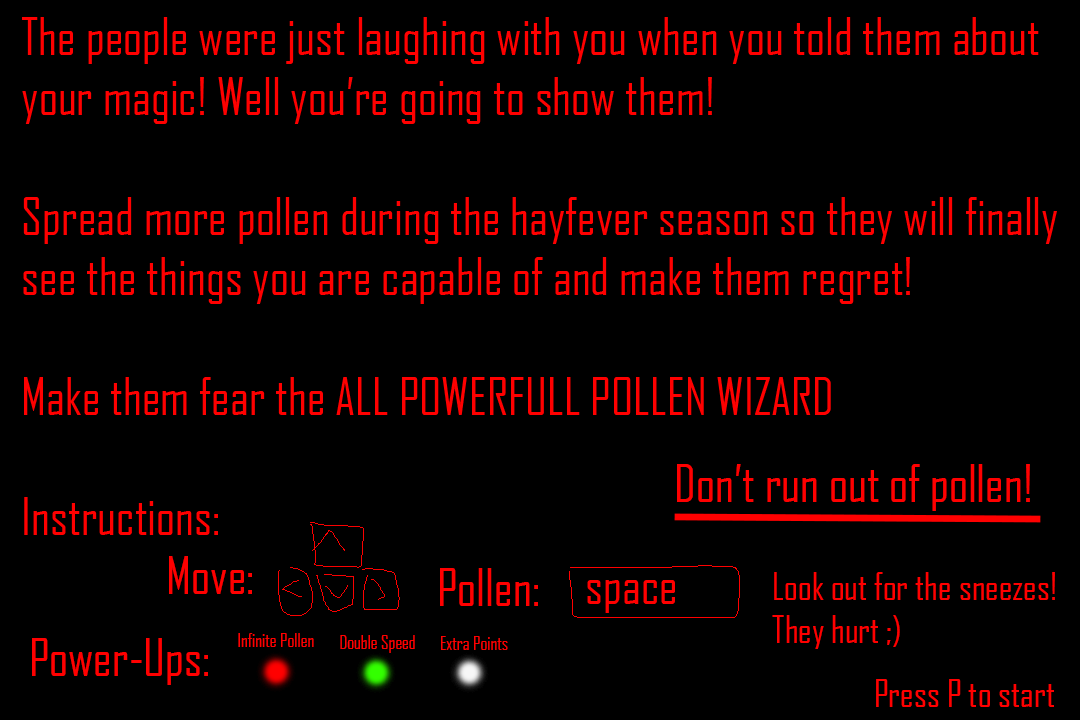
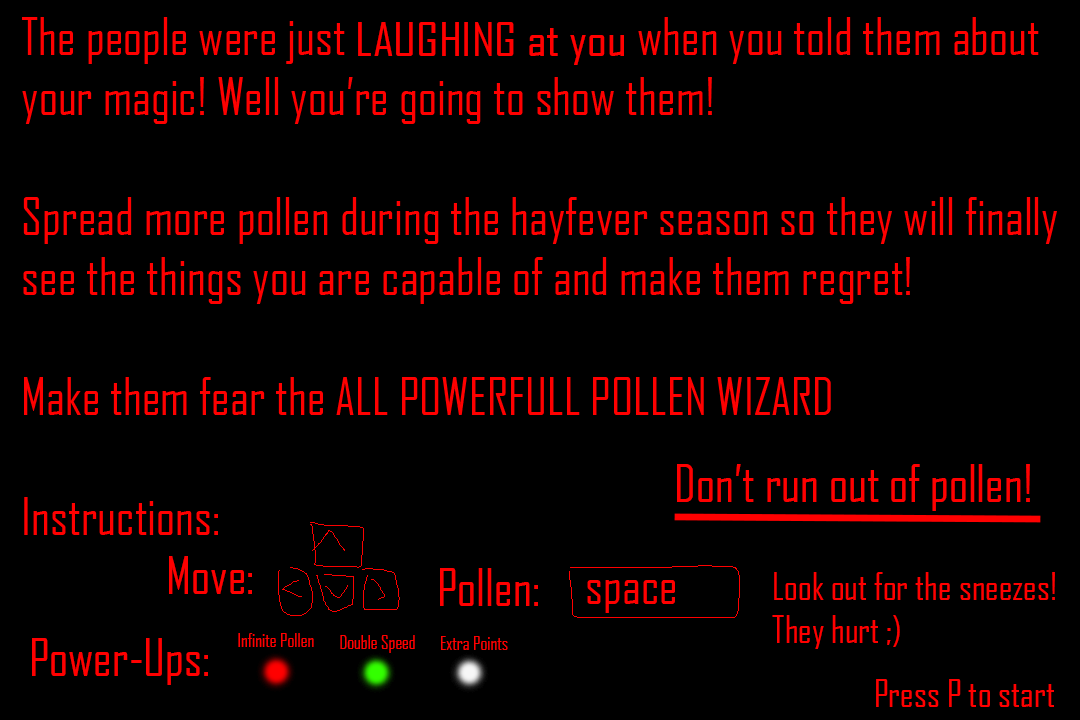
Updated start screen + updated point power up

Changed region(s): [[0.3361, 0.0306, 0.5806, 0.0917]]

diff --git a/GamePrototype/Game.cpp b/GamePrototype/Game.cpp
@@ -489,7 +489,7 @@ void Game::Draw( ) const
 				utils::FillRect(Rectf(m_CurrentPowerUpLoc.x - 4, m_CurrentPowerUpLoc.y - 4, 8, 8));
 				break;
 			case powerUp::points:
-				utils::SetColor(Color4f(0.0f, 0.0f, 0.0f, 1.0f));
+				utils::SetColor(Color4f(1.0f, 1.0f, 1.0f, 1.0f));
 				utils::FillRect(Rectf(m_CurrentPowerUpLoc.x - 4, m_CurrentPowerUpLoc.y - 4, 8, 8));
 				break;
 
